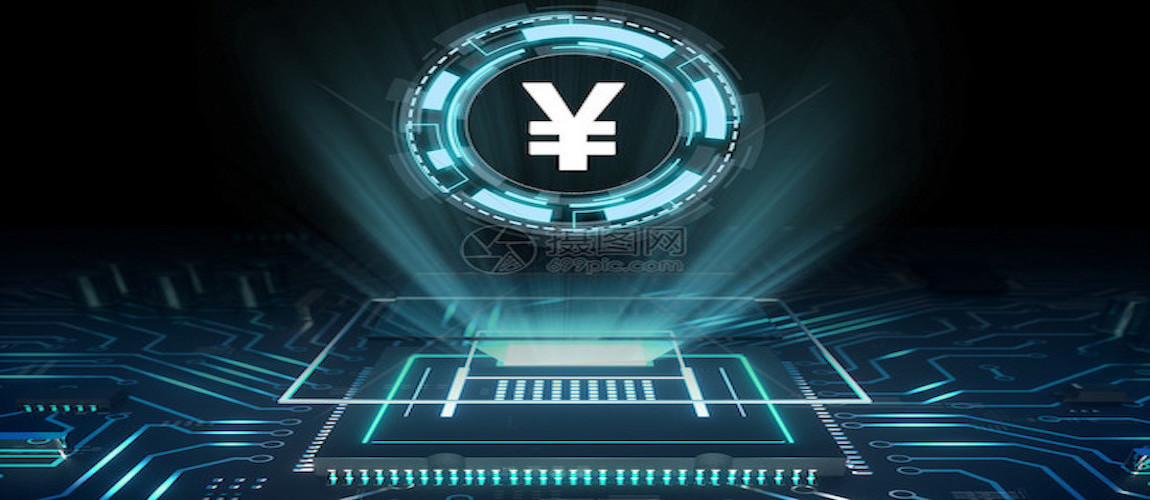
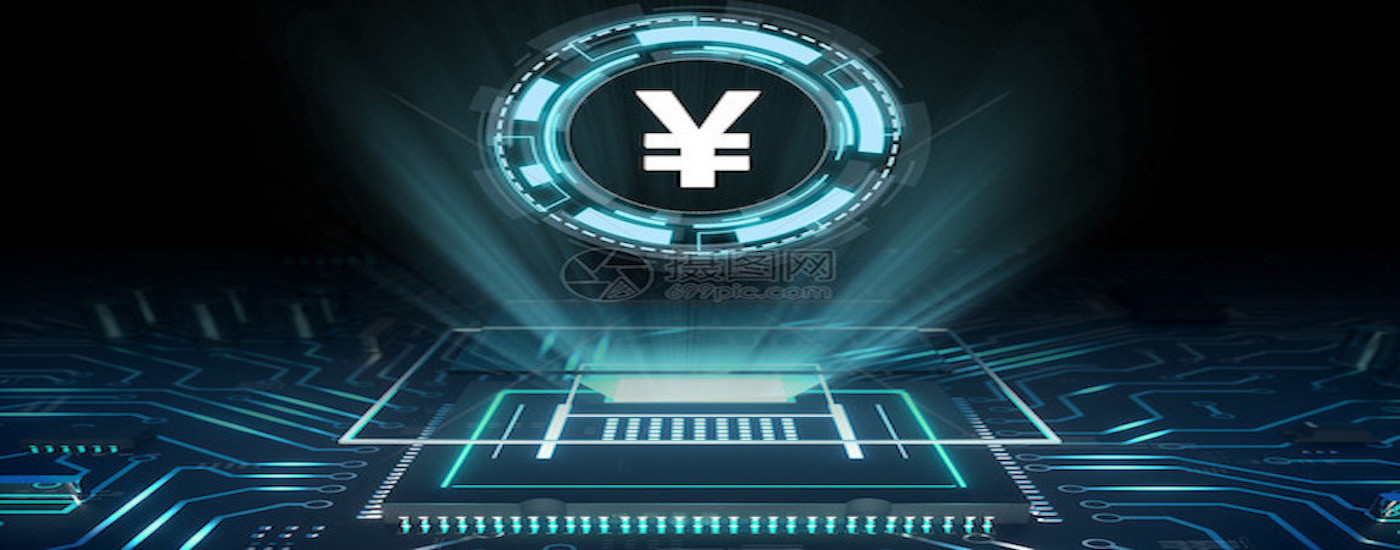
重新排版了一下图片大小

Changed region(s): [[0.6391, 0.87, 0.6696, 0.9], [0.5174, 0.78, 0.5478, 0.81], [0.1826, 0.84, 0.213, 0.87]]

diff --git a/src/components/Carousel.vue b/src/components/Carousel.vue
@@ -2,7 +2,7 @@
   <div class="index">
     <!-- 跑马灯  -->
     <div>
-      <el-carousel :interval="5000" height="500px">
+      <el-carousel :interval="5000" height="550px">
         <el-carousel-item v-for="item in imgList" :key="item.id">
           <img :src="item.idView" class="image">
         </el-carousel-item>
@@ -33,8 +33,8 @@ export default {
 .index{
   background: #c8cfd8;
   text-align: center;
-  margin-left: 142px;
-  width: 80.6%;
+  margin-left: 0px;
+  width: 100%;
 }
 .el-carousel__item h3 {
   color: #475669;
